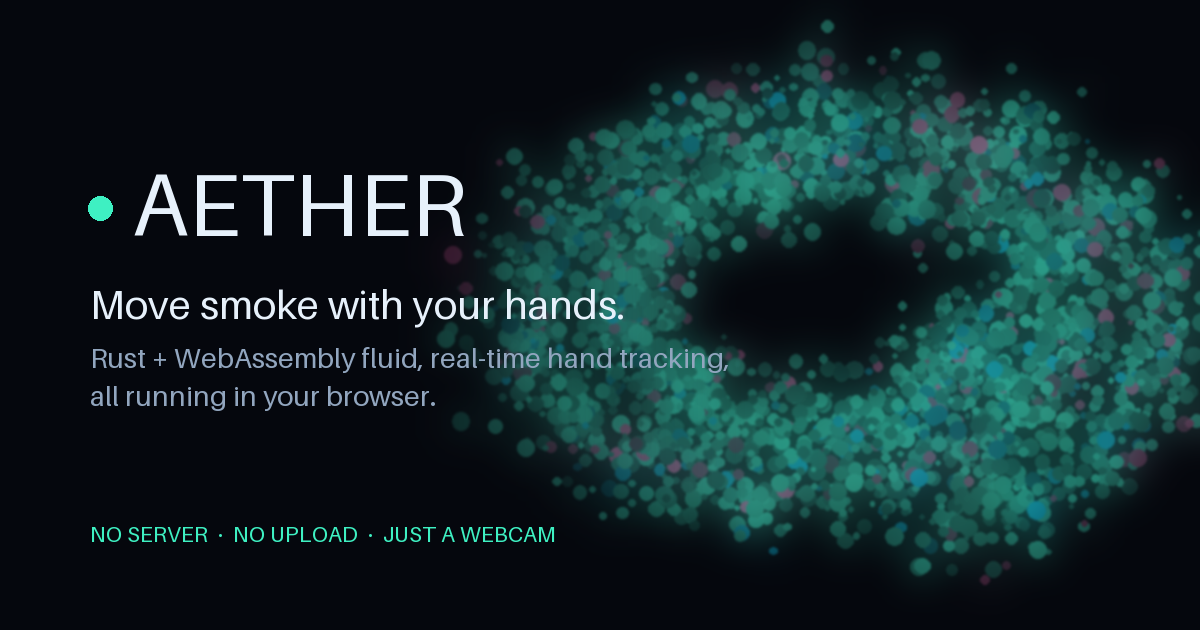
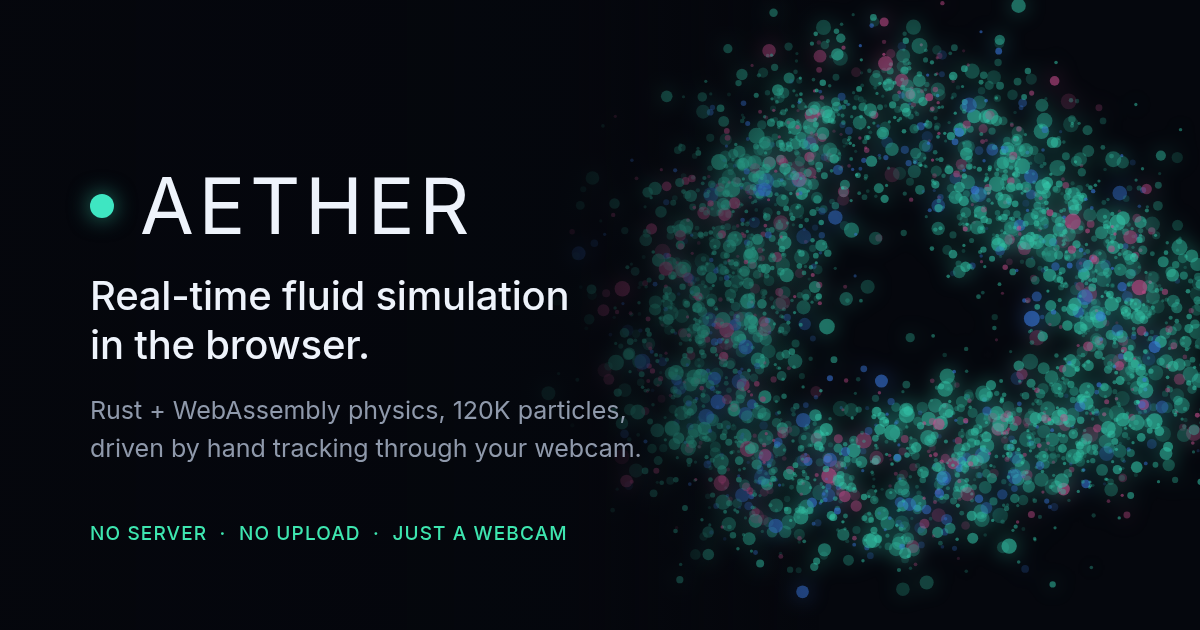
Rewrite the tagline on the link preview and the README
The preview card, its og:title and the README's opening line now lead
with what the project is: a real-time fluid simulation in the browser,
driven by hand tracking. The card is rebuilt in the same style (1200x630,
Inter, a particle ring) with the new copy.

diff --git a/web/index.html b/web/index.html
@@ -18,7 +18,7 @@
          VITE_SITE_URL comes from web/.env, overridden by the deploy workflow. -->
     <meta property="og:type" content="website" />
     <meta property="og:site_name" content="Aether" />
-    <meta property="og:title" content="Aether — move smoke with your hands" />
+    <meta property="og:title" content="Aether — real-time fluid simulation in the browser" />
     <meta
       property="og:description"
       content="A gesture-driven fluid engine: Rust and WebAssembly physics with real-time hand tracking, running entirely in your browser."
@@ -27,7 +27,7 @@
     <meta property="og:image" content="%VITE_SITE_URL%/og.png" />
     <meta property="og:image:width" content="1200" />
     <meta property="og:image:height" content="630" />
-    <meta property="og:image:alt" content="Aether — glowing smoke swirling on a dark background" />
+    <meta property="og:image:alt" content="Aether: real-time fluid simulation in the browser, over a ring of glowing particles" />
     <meta name="twitter:card" content="summary_large_image" />
     <!-- Linked, not imported from main.ts, so the loader below paints with the
          first frame instead of waiting for the module graph. -->

diff --git a/README.md b/README.md
@@ -8,8 +8,8 @@
 
 [![Aether](web/public/og.png)](https://aether-physics.xyz)
 
-A gesture-driven fluid reality engine. Stand in front of a webcam and move smoke
-with your hands.
+A real-time fluid simulation in the browser, driven by hand tracking through
+your webcam.
 
 An incompressible Navier–Stokes solver and a particle system of 120,000 (up to
 a million in overdrive), written in Rust and compiled to WebAssembly, driven in
